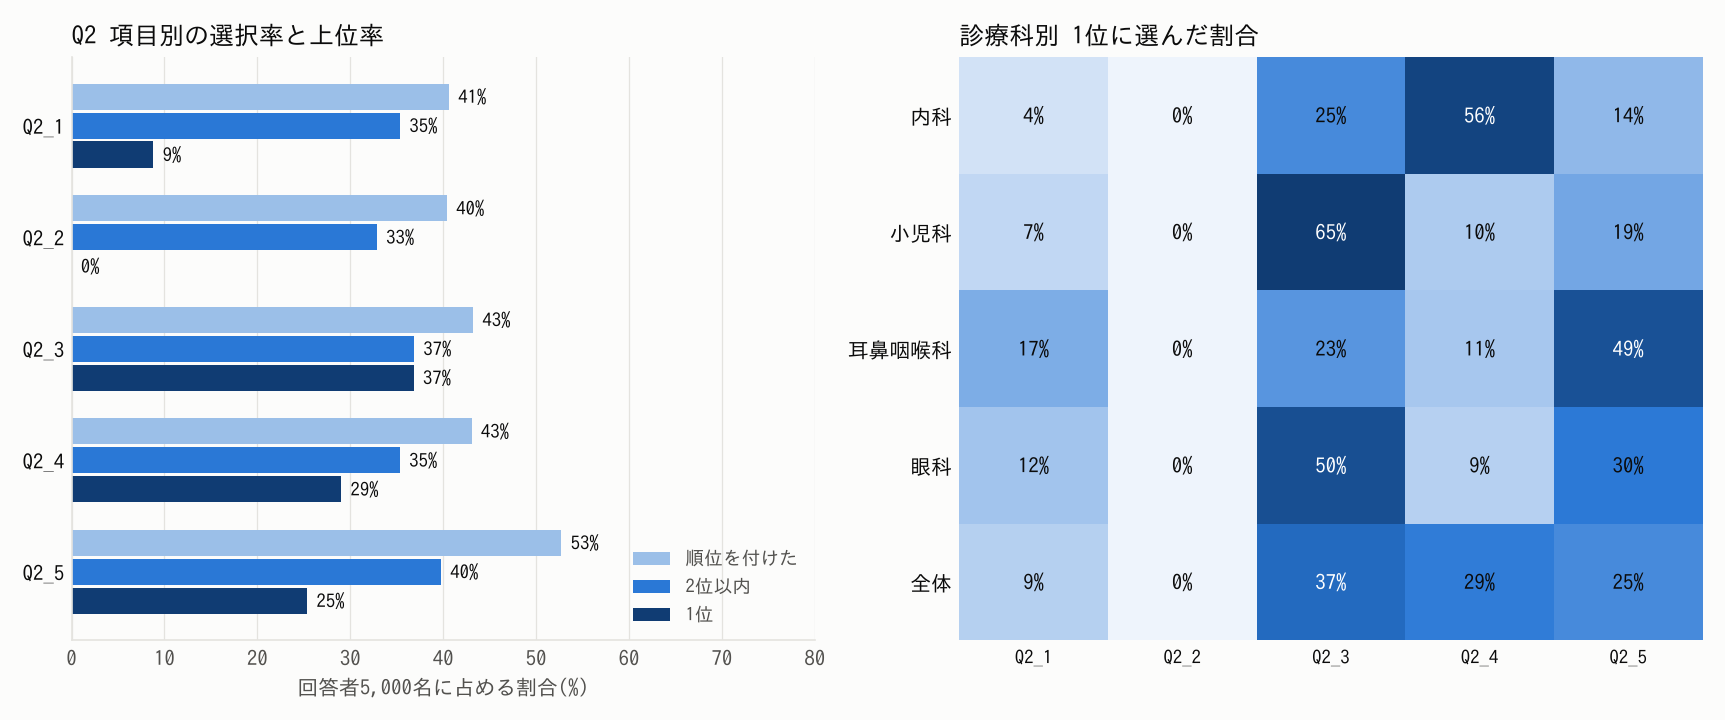
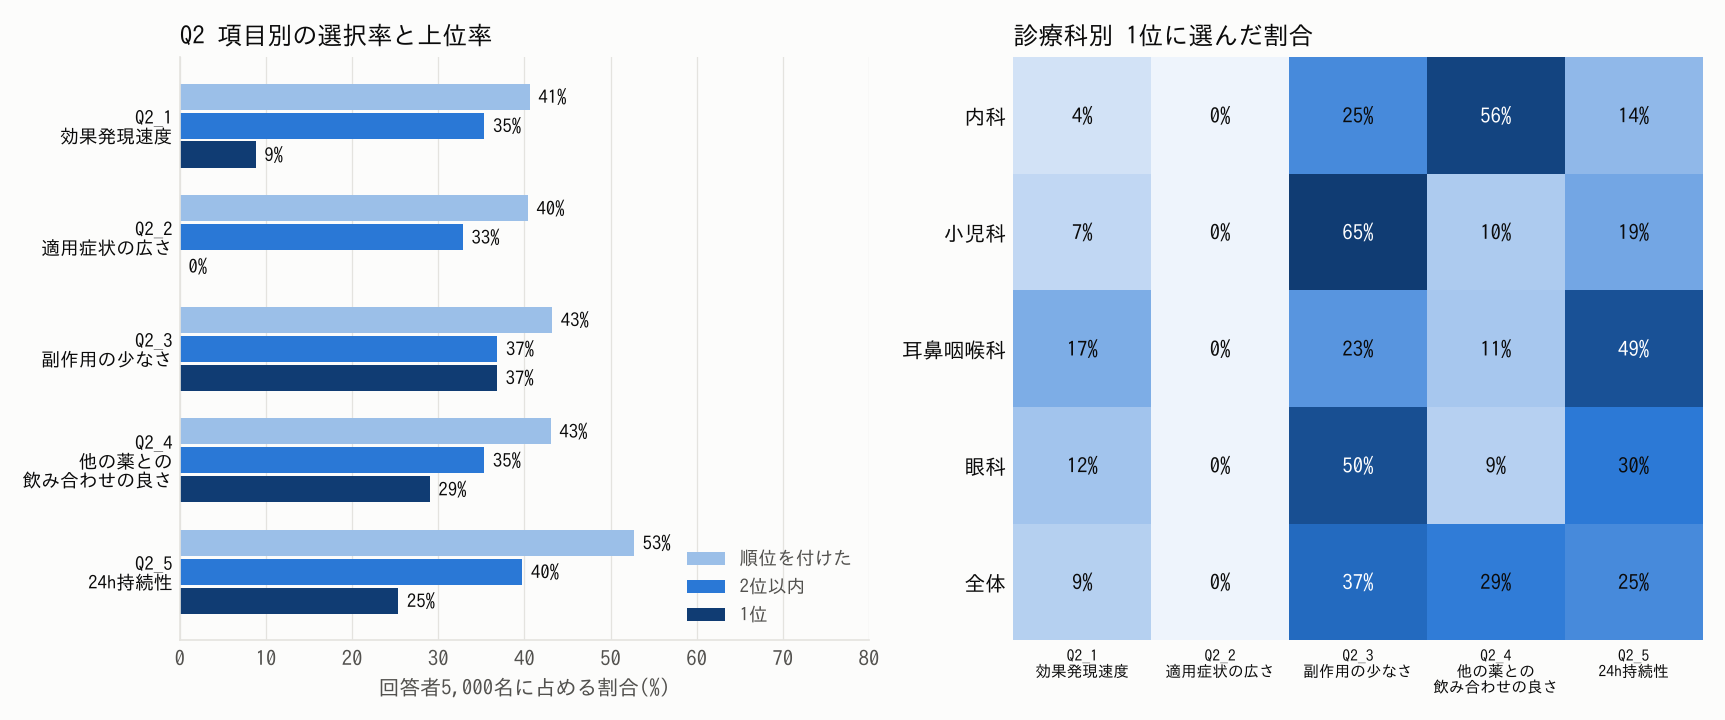
Apply data spec: label Q1/Q2 items and Q3 period (past 1 year) in EDA outputs
Claude-Session: https://claude.ai/code/session_01XQ6PB7oNonvnEsyhMwoxs5

diff --git a/eda_output/eda.py b/eda_output/eda.py
@@ -26,7 +26,13 @@ Q2 = [f'Q2_{i}' for i in range(1, 6)]
 d['Q1平均'] = d[Q1].mean(axis=1)
 
 
+NAMES = {'1': '効果発現速度', '2': '適用症状の広さ', '3': '副作用の少なさ', '4': '他の薬との飲み合わせの良さ', '5': '24h持続性'}
+NM = {f'Q{q}_{i}': f'Q{q}_{i} {NAMES[str(i)]}' for q in (1, 2) for i in range(1, 6)}
+FN = {k: k.split(' ')[0] + '\n' + v.split(' ')[1].replace('飲み合わせ', '\n飲み合わせ') for k, v in NM.items()}
+
+
 def save(df, name):
+    df = df.rename(index=NM, columns=NM)
     df.to_csv(os.path.join(OUT, name), encoding='utf-8-sig')
 
 
@@ -77,7 +83,7 @@ for i in range(len(DEPTS)):
     ax.text(i, pres.iloc[i] + unp.iloc[i] / 2, f'{unp.iloc[i]:.1f}', ha='center', va='center', color=INK, fontsize=10)
     ax.text(i, pres.iloc[i] + unp.iloc[i] + .15, f'計 {pres.iloc[i] + unp.iloc[i]:.1f}', ha='center', color=INK2, fontsize=9)
 ax.set_xticks(x); ax.set_xticklabels(DEPTS, color=INK)
-ax.set_ylabel('医師一人当たり花粉症患者数(期間不明)', color=INK2)
+ax.set_ylabel('医師一人当たり花粉症患者数(直近1年間)', color=INK2)
 ax.set_ylim(0, 14)
 ax.set_title('診療科別 医師一人当たり患者数の内訳', loc='left', color=INK, fontsize=12)
 ax.legend(frameon=False, loc='upper right', fontsize=9, labelcolor=INK2)
@@ -164,7 +170,7 @@ ax.bar(qs, un, .6, bottom=pr, color=ORANGE, label='潜在未処方患者')
 for q in qs:
     ax.text(q, pr[q] + un[q] + .15, f'未処方 {un[q]:.1f}', ha='center', color=INK, fontsize=9)
 ax.set_xticks(qs); ax.set_xticklabels(qs, color=INK)
-ax.set_xlabel('処方意向 Q4(1〜5段階)', color=INK2); ax.set_ylabel('医師一人当たり患者数(期間不明)', color=INK2)
+ax.set_xlabel('処方意向 Q4(1〜5段階)', color=INK2); ax.set_ylabel('医師一人当たり患者数(直近1年間)', color=INK2)
 ax.set_ylim(0, 11.5); ax.legend(frameon=False, loc='upper left', fontsize=9, labelcolor=INK2)
 ax.set_title('処方意向別 医師一人当たり患者数の内訳', loc='left', color=INK, fontsize=12)
 f.tight_layout(); f.savefig(os.path.join(OUT, 'fig2_処方意向別の処方状況.png'), dpi=150, facecolor=SURF); plt.close(f)
@@ -225,7 +231,7 @@ im = ax.imshow(H.values, cmap=SEQ, vmin=1.5, vmax=3.5, aspect='auto')
 for i in range(H.shape[0]):
     for j in range(H.shape[1]):
         ax.text(j, i, f'{H.values[i, j]:.2f}', ha='center', va='center', color='white' if H.values[i, j] > 2.9 else INK, fontsize=10)
-ax.set_xticks(range(6)); ax.set_xticklabels(Q1 + ['5項目\n平均'], color=INK, fontsize=9)
+ax.set_xticks(range(6)); ax.set_xticklabels([FN[c] for c in Q1] + ['5項目\n平均'], color=INK, fontsize=7.5)
 ax.set_yticks(range(5)); ax.set_yticklabels(DEPTS + ['全体'], color=INK)
 for s in ax.spines.values(): s.set_visible(False)
 ax.tick_params(length=0)
@@ -282,7 +288,7 @@ for yy, a, b, c in zip(y, t4a['順位付けした割合'], t4a['2位以内の割
     ax.text(a * 100 + 1, yy + h, f'{a*100:.0f}%', va='center', color=INK, fontsize=9)
     ax.text(b * 100 + 1, yy, f'{b*100:.0f}%', va='center', color=INK, fontsize=9)
     ax.text(c * 100 + 1, yy - h, f'{c*100:.0f}%', va='center', color=INK, fontsize=9)
-ax.set_yticks(y); ax.set_yticklabels(Q2, color=INK); ax.set_xlim(0, 80)
+ax.set_yticks(y); ax.set_yticklabels([FN[c] for c in Q2], color=INK, fontsize=9); ax.set_xlim(0, 80)
 ax.set_xlabel('回答者5,000名に占める割合(%)', color=INK2)
 ax.legend(frameon=False, fontsize=9, labelcolor=INK2, loc='lower right')
 ax.set_title('Q2 項目別の選択率と上位率', loc='left', color=INK, fontsize=12)
@@ -292,7 +298,7 @@ ax.imshow(H, cmap=SEQ, vmin=0, vmax=60, aspect='auto')
 for i in range(H.shape[0]):
     for j in range(H.shape[1]):
         ax.text(j, i, f'{H[i, j]:.0f}%', ha='center', va='center', color='white' if H[i, j] > 33 else INK, fontsize=10)
-ax.set_xticks(range(5)); ax.set_xticklabels(Q2, color=INK, fontsize=9)
+ax.set_xticks(range(5)); ax.set_xticklabels([FN[c] for c in Q2], color=INK, fontsize=7.5)
 ax.set_yticks(range(5)); ax.set_yticklabels(DEPTS + ['全体'], color=INK)
 for s in ax.spines.values(): s.set_visible(False)
 ax.tick_params(length=0)
